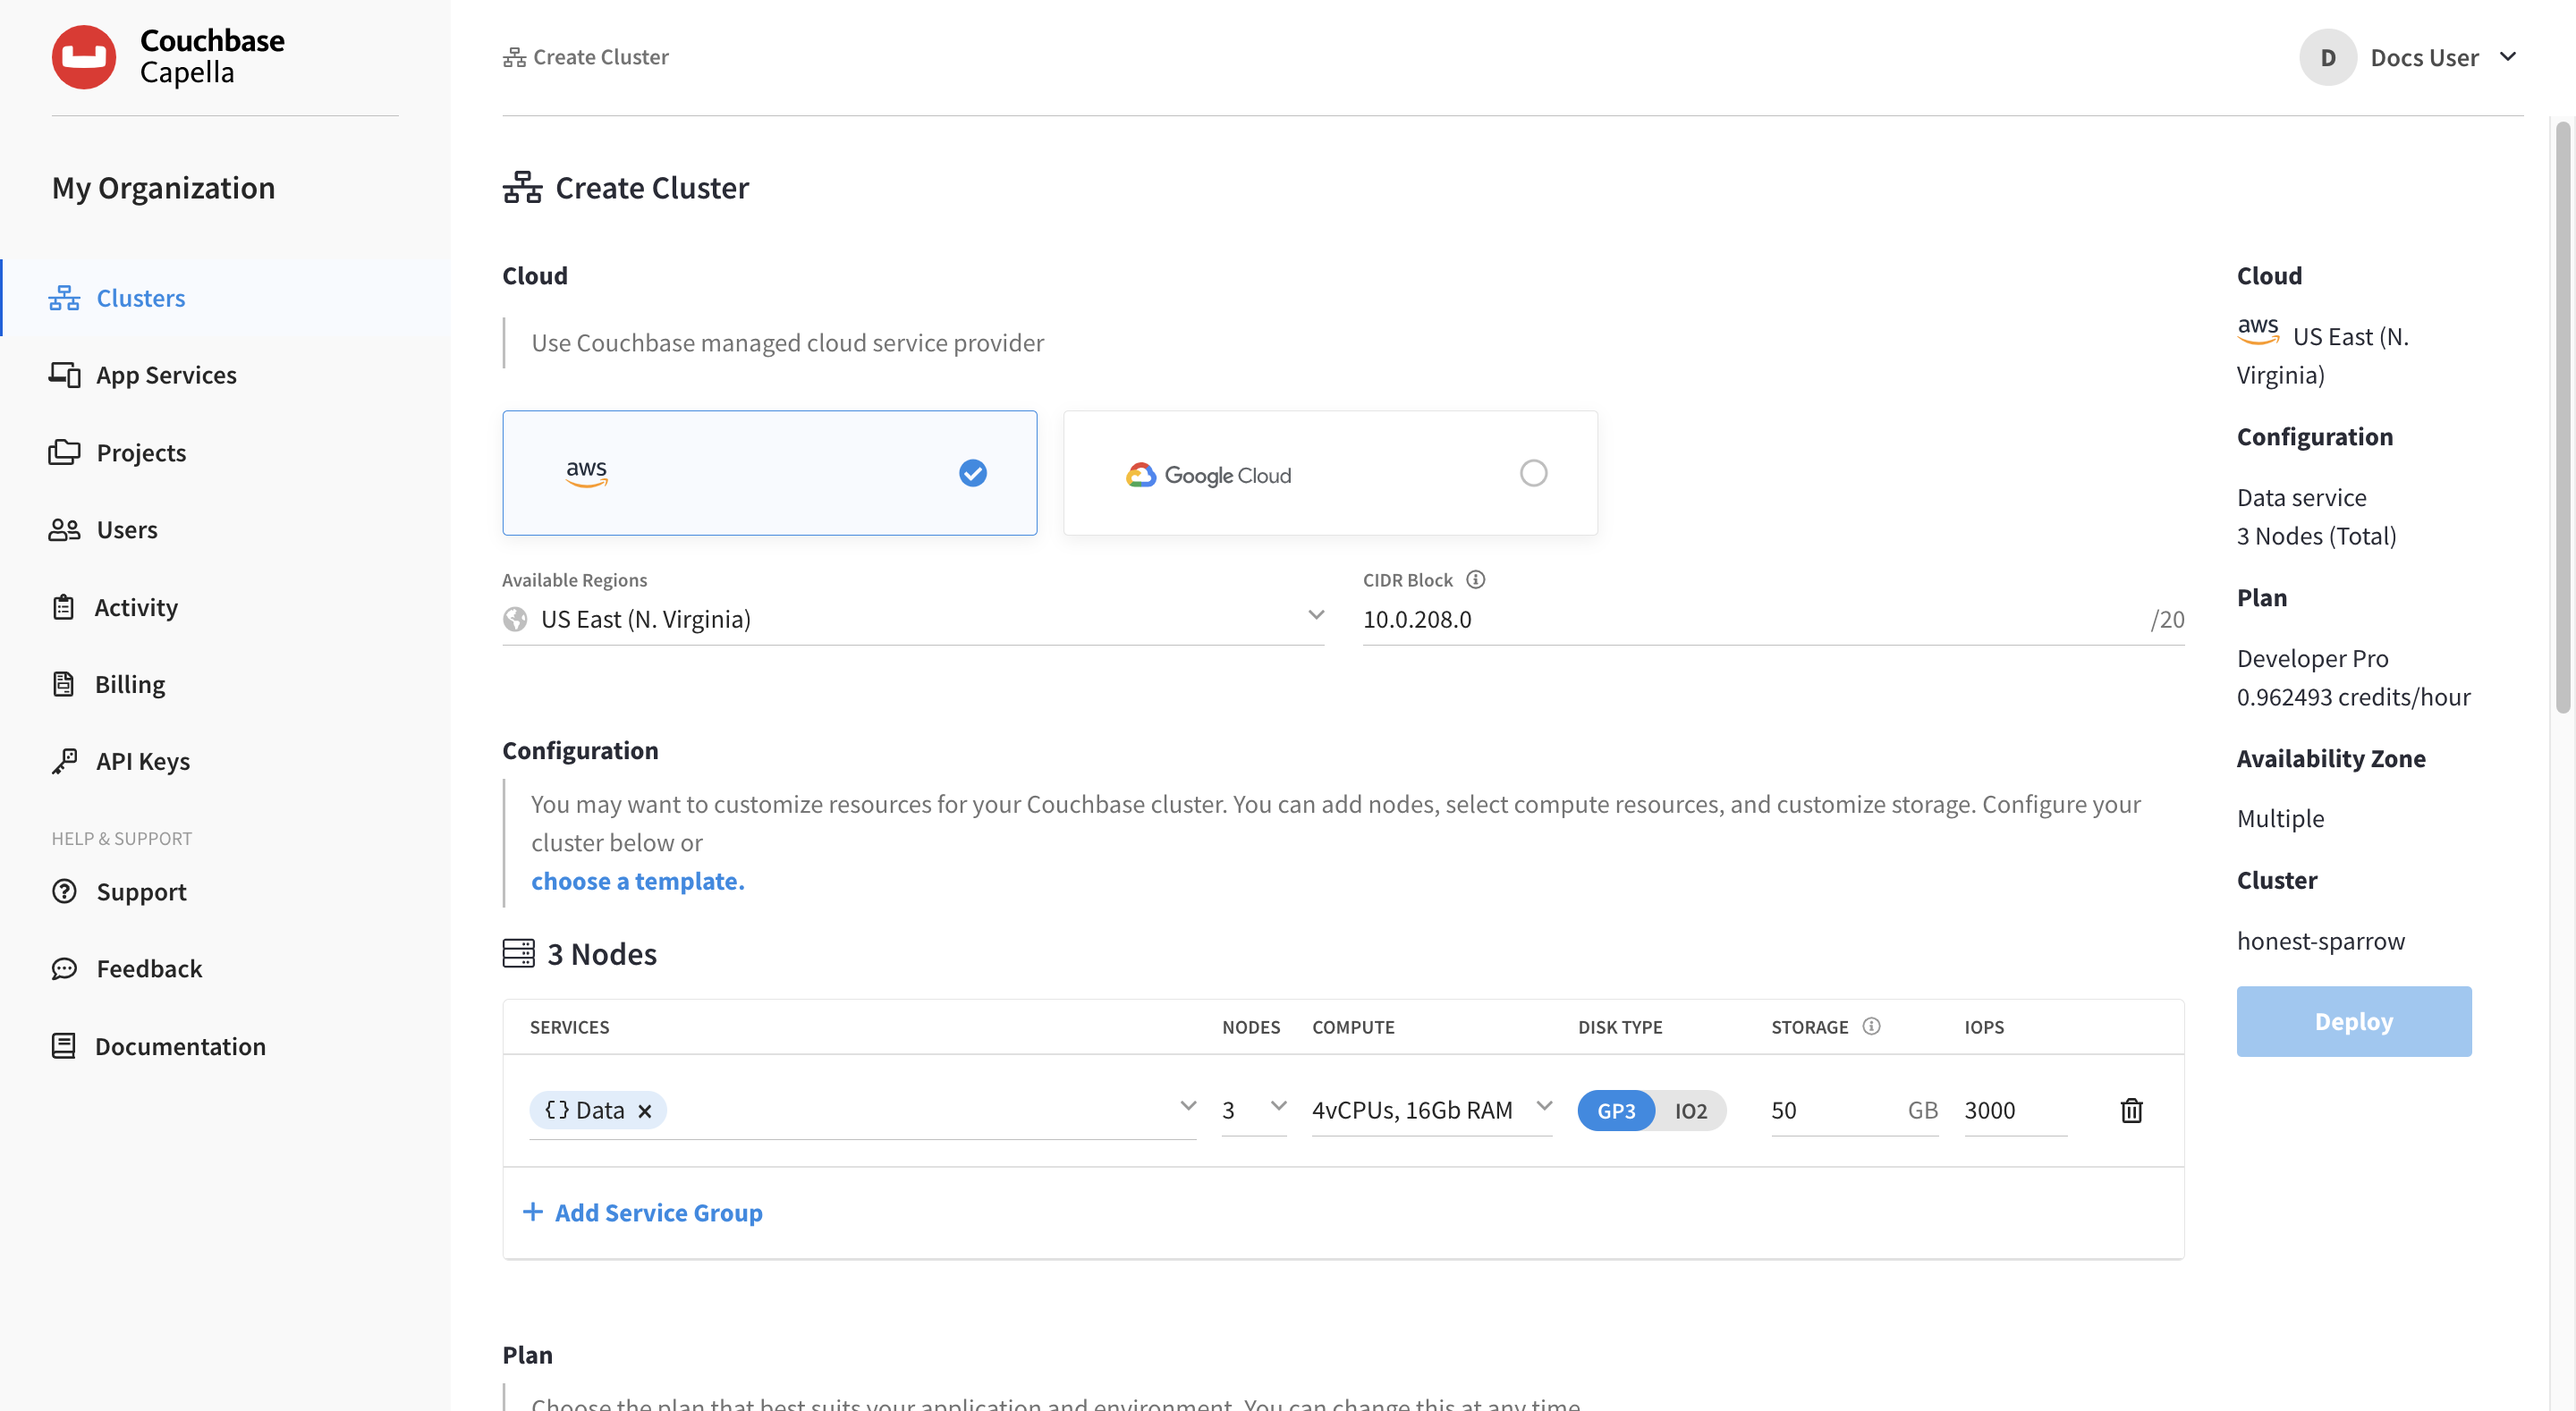
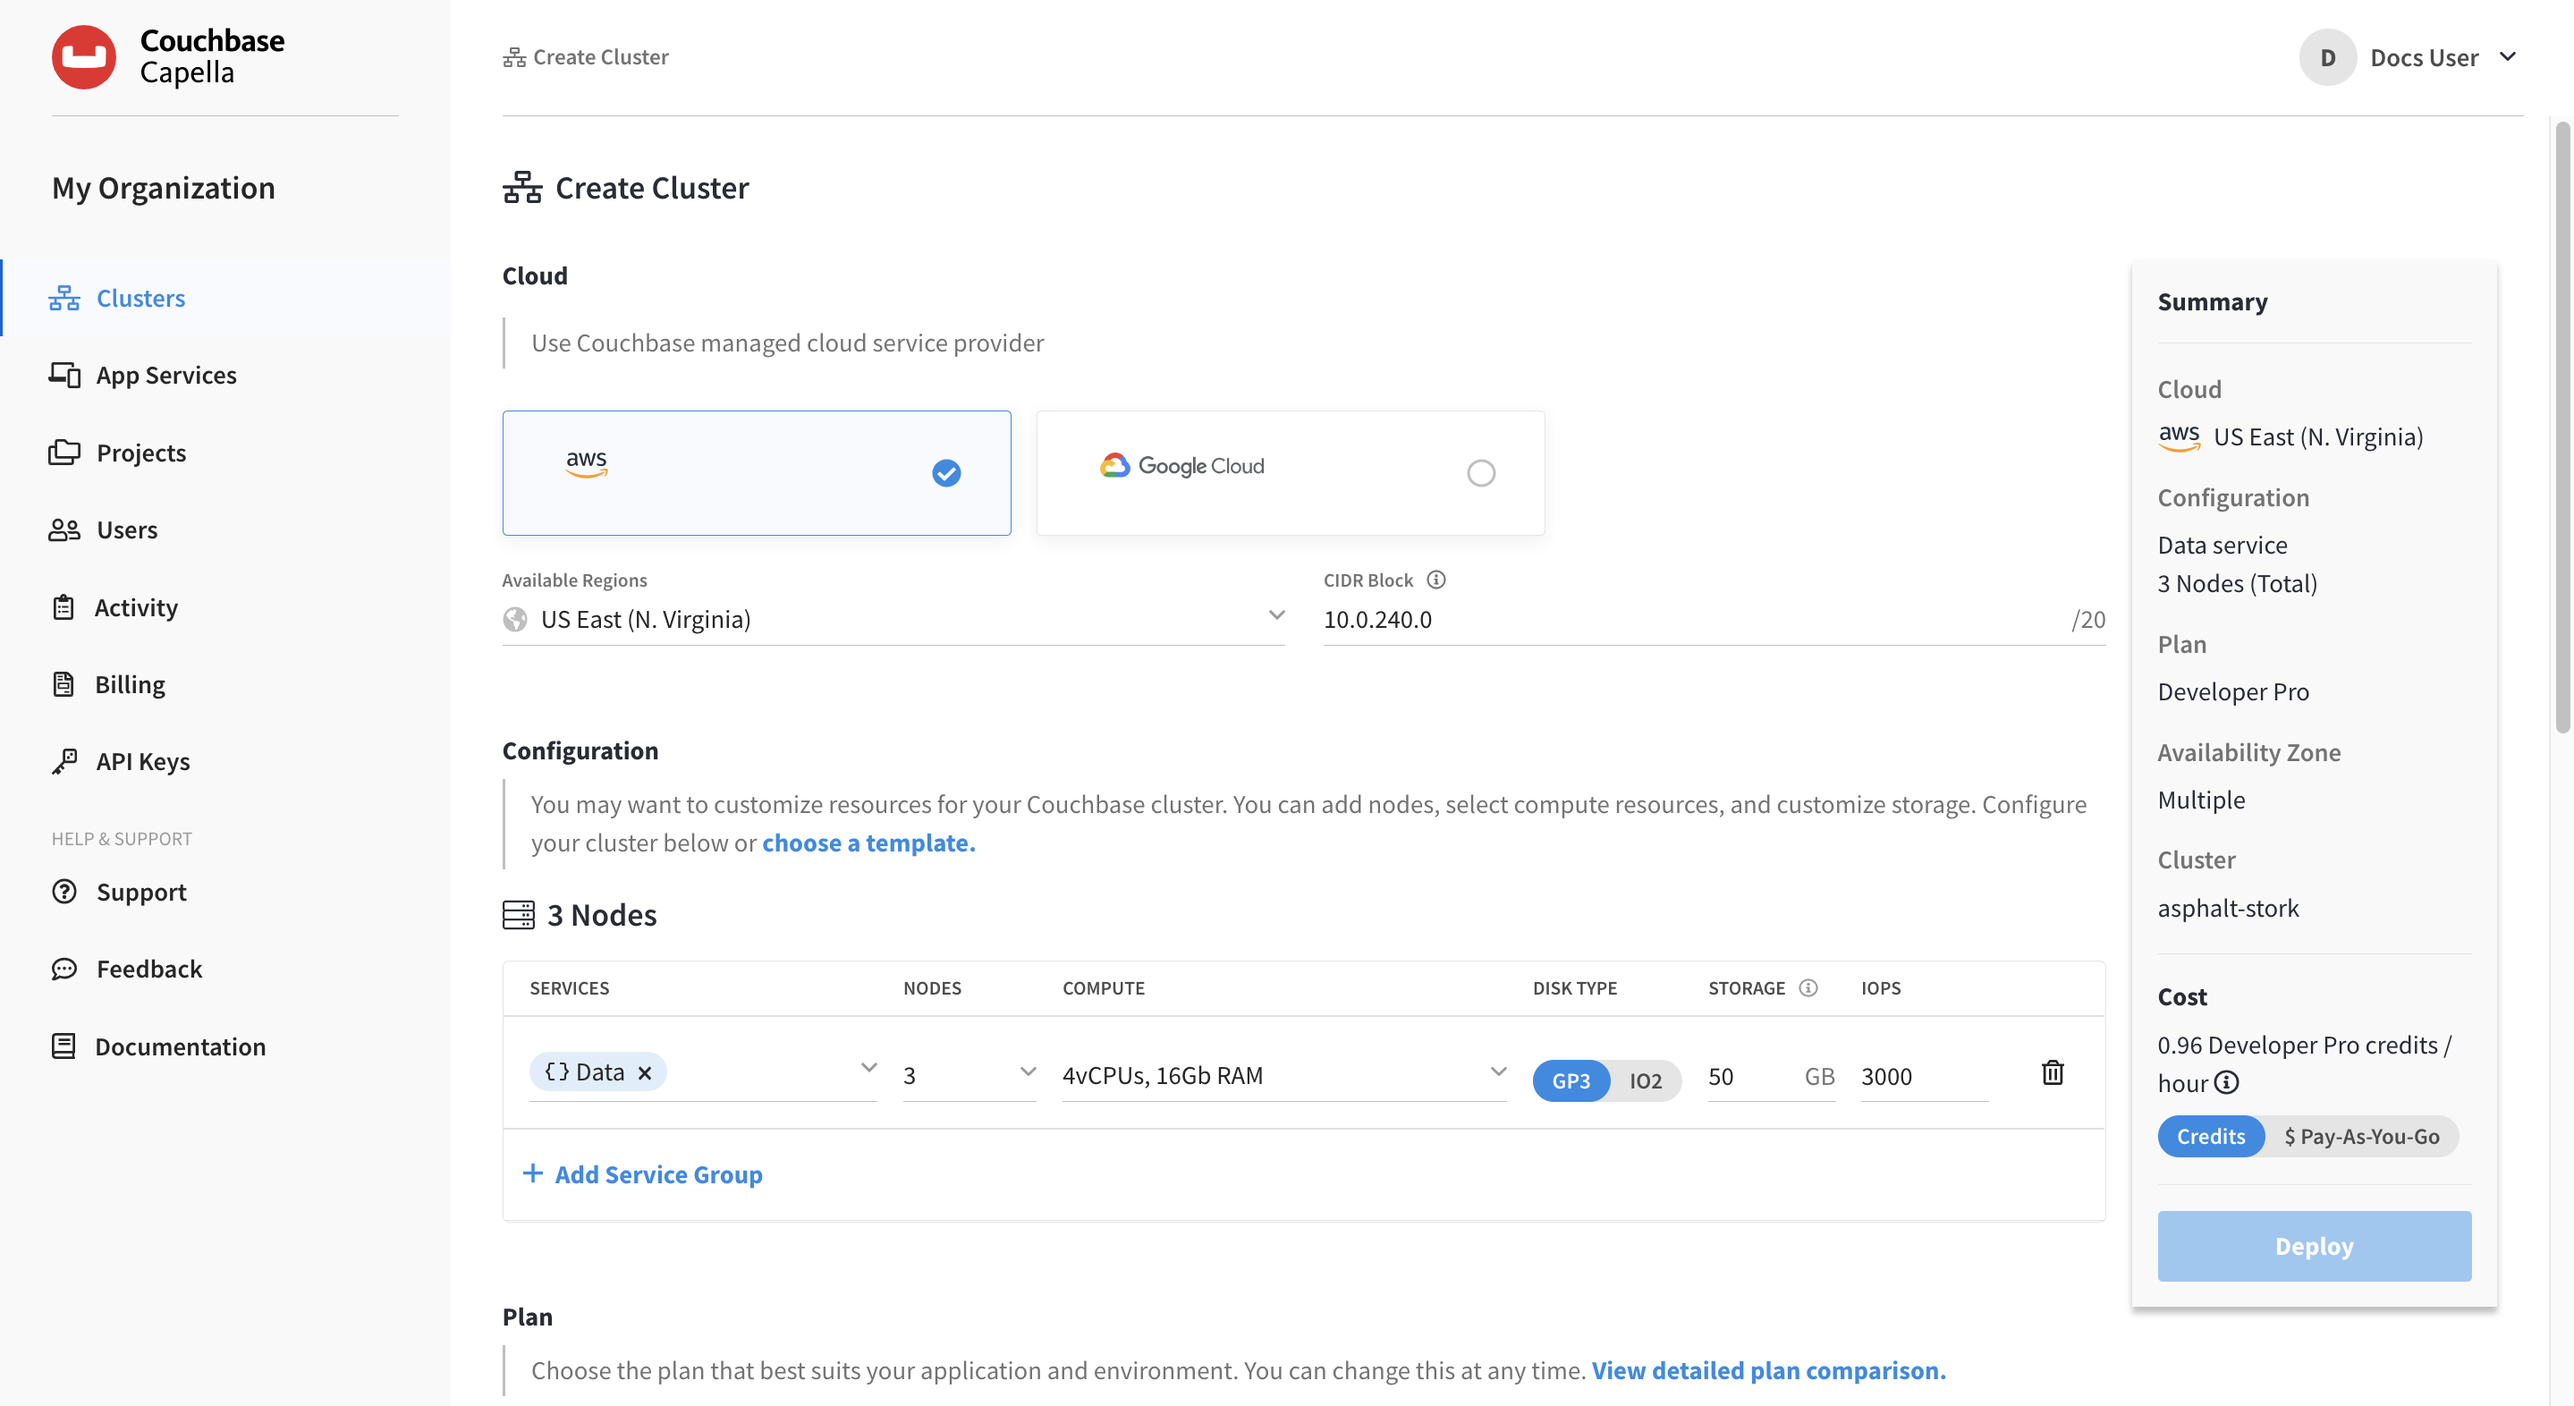
rebuild

diff --git a/AV-36621/cloud/clusters/create-cluster.html b/AV-36621/cloud/clusters/create-cluster.html
@@ -1013,7 +1013,7 @@ Cluster names can only include letters, numbers, spaces, periods (<code>.</code>
 <p>Review your cluster&#8217;s configuration.</p>
 <div class="paragraph">
 <p>With the new cluster configuration options now set, it&#8217;s ready to deploy.
-Review the summary of the new cluster configuration in the pane on the right side of the page to ensure it meets your expectations.</p>
+Review the summary of the new cluster configuration and its hourly cost in the pane on the right side of the page to ensure it meets your expectations.</p>
 </div>
 <div class="admonitionblock tip">
 <table>
@@ -1031,9 +1031,13 @@ For a list of the configuration changes you can make to a deployed Capella clust
 </li>
 <li>
 <p>Deploy your cluster.</p>
-<div class="paragraph">
-<p>Once you&#8217;re satisfied with the cluster configuration, click <b class="button">Deploy</b>.</p>
-</div>
+<div class="olist loweralpha">
+<ol class="loweralpha" type="a">
+<li>
+<p>Once you&#8217;re satisfied with the cluster configuration, choose between the <a href="../billing/billing.html#up-front-payment" class="page">Credits</a> and <a href="../billing/billing.html#up-front-payment" class="page">Pay-As-You-Go</a> billing options.</p>
+</li>
+<li>
+<p>Click <b class="button">Deploy</b>.</p>
 <div class="paragraph">
 <p>Capella will proceed with automatically deploying the cluster to your chosen cloud provider and region.
 This process will generally take up to 5 minutes to deploy, though it can take longer depending on certain factors such as cluster size and cloud provider performance.
@@ -1042,6 +1046,9 @@ You&#8217;ll receive a notification when the deployment is done.</p>
 </div>
 <div class="paragraph">
 <p>When returning to your cluster after it has successfully deployed, you will see the cluster&#8217;s <a href="monitoring/metrics-dashboard.html" class="page"><strong>Metrics</strong></a> tab.</p>
+</div>
+</li>
+</ol>
 </div>
 </li>
 </ol>
